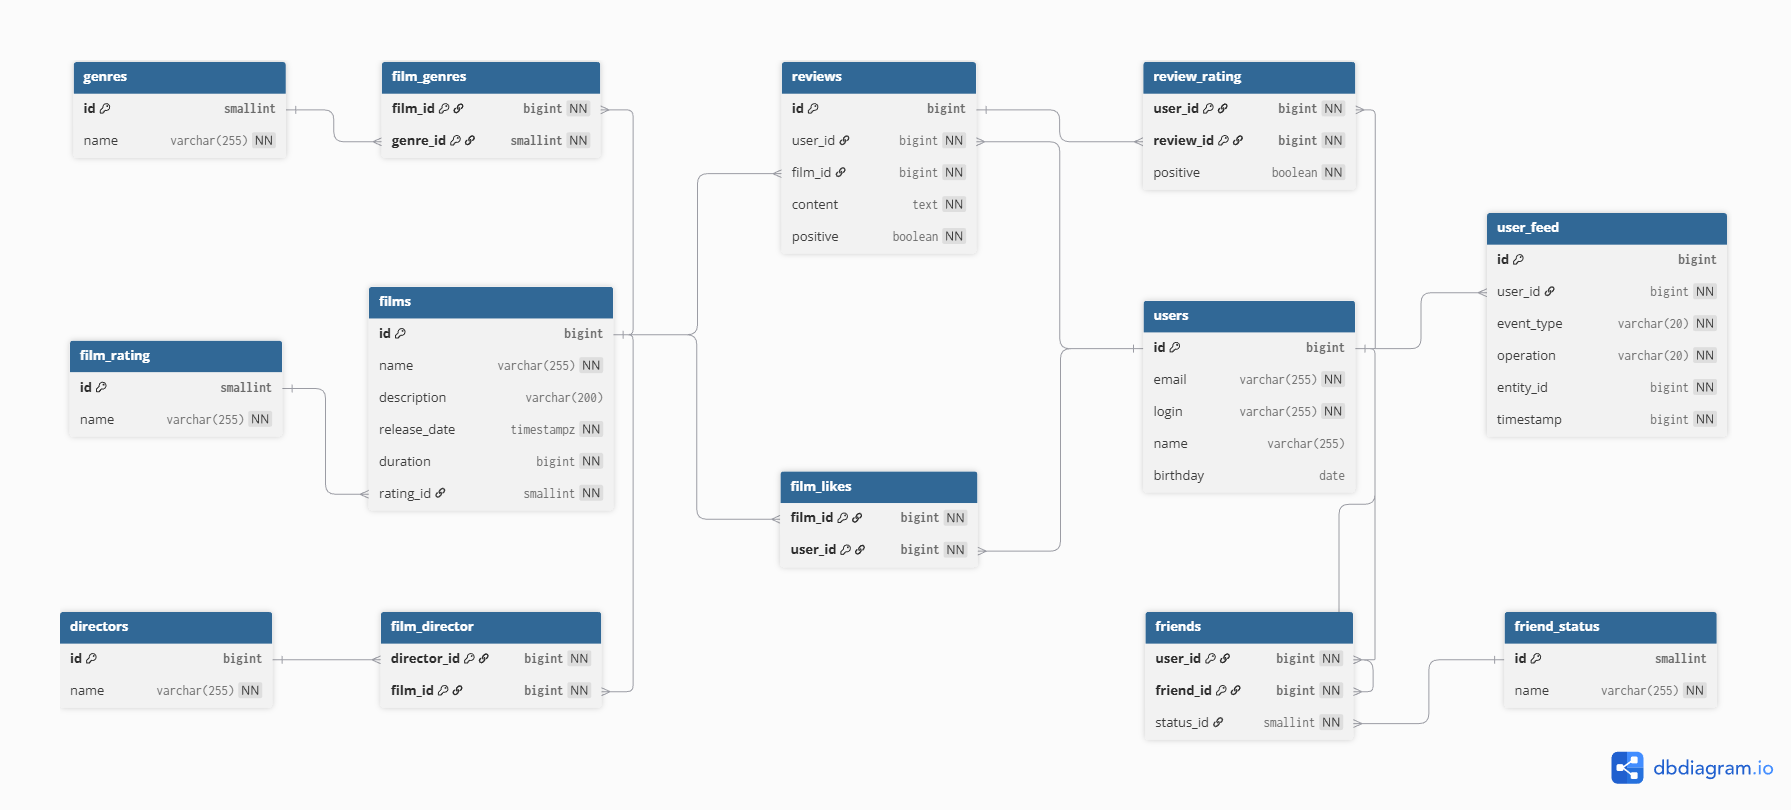
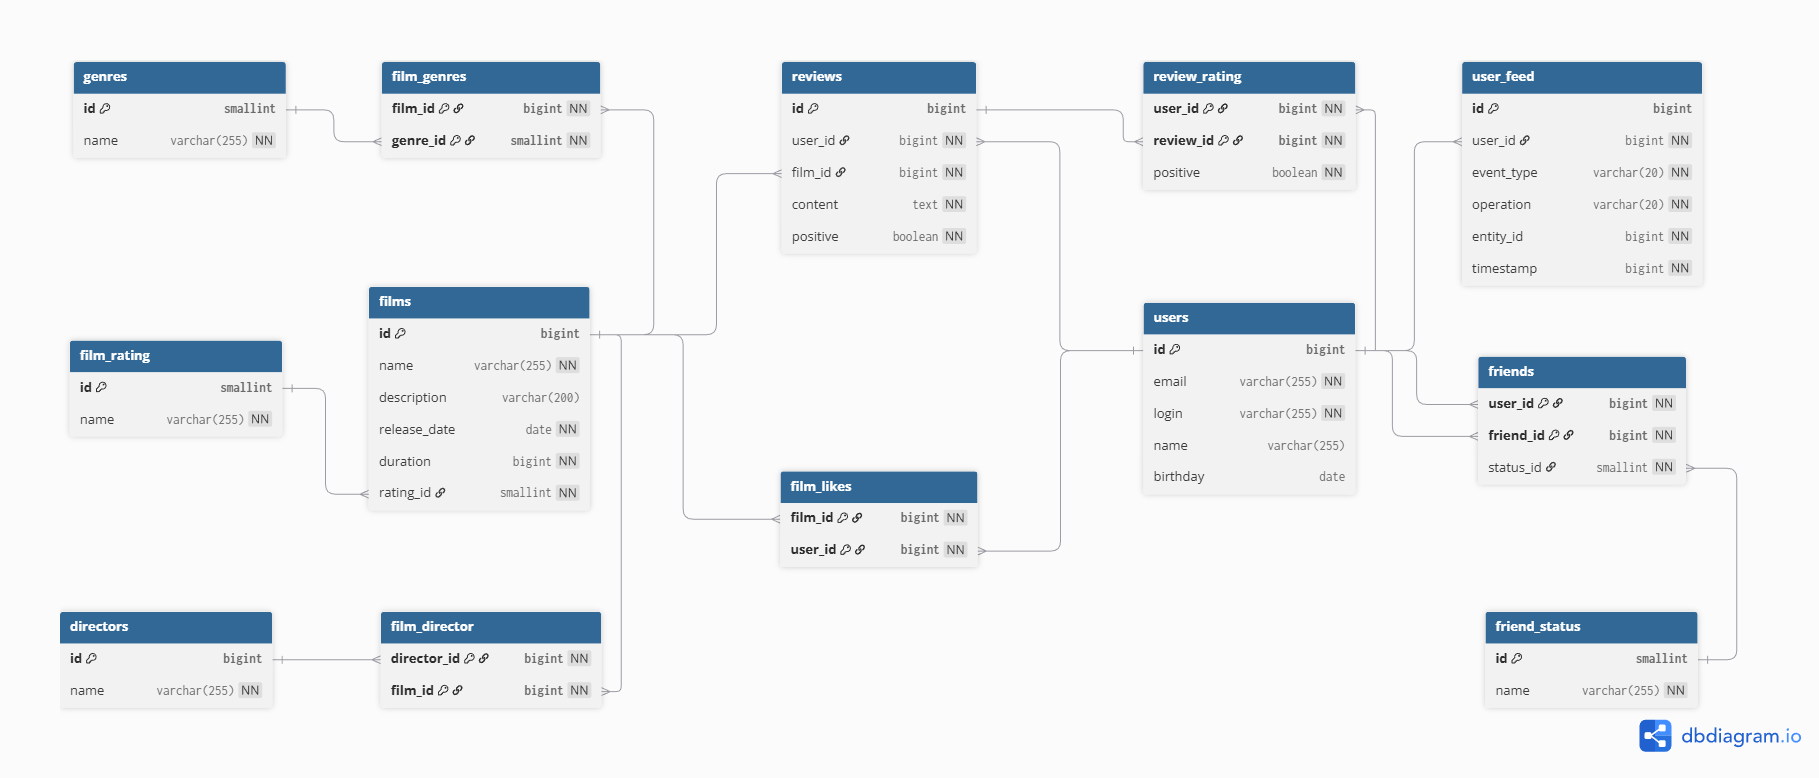
fix/ изменена схема и опаисание Readme, кроме запросов. Исправлена ошибка в запросе удаления Режиссера (не хваатало слова FROM)

diff --git a/src/main/java/ru/yandex/practicum/filmorate/dal/DirectorDBStorage.java b/src/main/java/ru/yandex/practicum/filmorate/dal/DirectorDBStorage.java
@@ -22,7 +22,7 @@ public class DirectorDBStorage extends BaseDBRepository<Director> implements Dir
 
     private static final String UPDATE_DIRECTOR_BY_ID = "UPDATE directors SET name = :name WHERE id = :id";
 
-    private static final String DELETE_DIRECTOR_BY_ID = "DELETE directors WHERE id = :id";
+    private static final String DELETE_DIRECTOR_BY_ID = "DELETE FROM directors WHERE id = :id";
 
     private static final String SELECT_DIRECTOR_BY_ID = "SELECT * FROM directors WHERE id = :id";
 

diff --git a/README.md b/README.md
@@ -2,150 +2,219 @@
 
 ## ER-диаграмма:
 
-![ER-диаграмма](/src/main/resources/er_diagram.png)
+<img src="./src/main/resources/er_diagram.png" width="100%" alt="ER‑диаграмма">
 
 # Пояснение к диаграмме.
 
 ## Таблица `films` (Фильмы)
 
 - **`id`** — уникальный идентификатор фильма.  ё
-  Тип: `integer` (целочисленный).  
+  Тип: `bigint` (целочисленный).  
   Ключевое свойство: первичный ключ.
 
-  - **`name`** — название фильма.  
-    Тип: `varchar` (строковый).
+- **`name`** — название фильма.  
+  Тип: `varchar` (строковый).
 
-  - **`description`** — описание фильма.  
-    Тип: `varchar` (строковый).
+- **`description`** — описание фильма.  
+  Тип: `varchar` (строковый).
 
-  - **`release_date`** — дата выхода фильма.  
-    Тип: `date` (дата).
+- **`release_date`** — дата выхода фильма.  
+  Тип: `date` (дата).
 
-  - **`duration`** — длительность фильма в минутах.  
-    Тип: `integer` (целочисленный).
+- **`duration`** — длительность фильма в минутах.  
+  Тип: `bigint` (целочисленный).
 
-  - **`rating_id`** — ссылка на рейтинг фильма.  
-    Тип: `integer` (целочисленный).  
-    Связь: внешний ключ к таблице `film_rating` (`id`).
+- **`rating_id`** — ссылка на рейтинг фильма.  
+  Тип: `smallint` (целочисленный).  
+  Связь: внешний ключ к таблице `film_rating` (`id`).
 
 ## Таблица `film_likes` (Лайки фильмов)
 
 - **`film_id`** — идентификатор фильма, которому поставлен лайк.  
-  Тип: `integer` (целочисленный).  
+  Тип: `bigint` (целочисленный).  
   Связь: внешний ключ к таблице `films` (`id`).
 
-  - **`user_id`** — идентификатор пользователя, поставившего лайк.  
-    Тип: `integer` (целочисленный).  
-    Связь: внешний ключ к таблице `users` (`id`).
+- **`user_id`** — идентификатор пользователя, поставившего лайк.  
+  Тип: `bigint` (целочисленный).  
+  Связь: внешний ключ к таблице `users` (`id`).
 
 ## Таблица `film_genres` (Жанры фильмов)
 
 - **`film_id`** — идентификатор фильма.  
-  Тип: `integer` (целочисленный).
+  Тип: `bigint` (целочисленный).
   Связь: внешний ключ к таблице `films` (`id`).
 
-  - **`genre_id`** — ссылка на жанр фильма.
-    Тип: `integer` (целочисленный).
-    Связь: внешний ключ к таблице `genres` (`id`).
+- **`genre_id`** — ссылка на жанр фильма.
+  Тип: `smallint` (целочисленный).
+  Связь: внешний ключ к таблице `genres` (`id`).
 
 ## Таблица `genres` (Жанры)
 
 - **`id`** — уникальный идентификатор жанра.  
-  Тип: `integer` (целочисленный).  
+  Тип: `smallint` (целочисленный).  
   Ключевое свойство: первичный ключ.
 
-  - **`name`** — название жанра.  
-    Тип: `genre` (перечисляемый).  
-    Возможные значения:
-      - `COMEDY` (комедия)
-      - `DRAMA` (драма)
-      - `CARTOON` (мультфильм)
-      - `THRILLER` (триллер)
-      - `DOCUMENTARY` (документальный)
-      - `ACTION` (боевик)
+- **`name`** — название жанра.  
+  Тип: `varchar` (строковый).  
+  Возможные значения (`enum FilmGenre`):
+    - `COMEDY` (комедия)
+    - `DRAMA` (драма)
+    - `CARTOON` (мультфильм)
+    - `THRILLER` (триллер)
+    - `DOCUMENTARY` (документальный)
+    - `ACTION` (боевик)
 
 ## Таблица `film_rating` (Рейтинги фильмов)
 
 - **`id`** — уникальный идентификатор рейтинга.  
-  Тип: `integer` (целочисленный).  
+  Тип: `smallint` (целочисленный).  
   Ключевое свойство: первичный ключ.
 
-  - **`name`** — значение рейтинга.  
-    Тип: `rating` (перечисляемый).  
-    Возможные значения:
-      - `G` (для всех возрастов)
-      - `PG` (рекомендуется присутствие родителей)
-      - `PG_13` (детям до 13 лет просмотр нежелателен)
-      - `R` (лицам до 17 лет обязательно присутствие взрослого)
-      - `NC_17` (запрещено для лиц младше 17)
+- **`name`** — значение рейтинга.  
+  Тип: `varchar` (строковый).  
+  Возможные значения (`enum FilmRating`):
+    - `G` (для всех возрастов)
+    - `PG` (рекомендуется присутствие родителей)
+    - `PG_13` (детям до 13 лет просмотр нежелателен)
+    - `R` (лицам до 17 лет обязательно присутствие взрослого)
+    - `NC_17` (запрещено для лиц младше 17)
+
+## Таблица `directors` (Режиссеры)
+
+- **`id`** — уникальный идентификатор режиссера.  
+  Тип: `bigint` (целочисленный).  
+  Ключевое свойство: первичный ключ.
+
+- **`name`** — значение рейтинга.  
+  Тип: `varchar` (строковый).
+
+## Таблица `film_director` (Режиссеры фильмов)
+
+- **`director_id`** — идентификатор режиссера, у которого есть фильм.  
+  Тип: `bigint` (целочисленный).  
+  Связь: внешний ключ к таблице `director` (`id`).
+
+ - **`film_id`** — идентификатор фильма, у которого есть режиссер.  
+    Тип: `bigint` (целочисленный).
+    Связь: внешний ключ к таблице `films` (`id`).
 
 ## Таблица `users` (Пользователи)
 
 - **`id`** — уникальный идентификатор пользователя.  
-  Тип: `integer` (целочисленный).  
+  Тип: `bigint` (целочисленный).  
   Ключевое свойство: первичный ключ.
 
-  - **`email`** — электронная почта пользователя.  
+- **`email`** — электронная почта пользователя.  
     Тип: `varchar` (строковый).
 
-  - **`login`** — логин пользователя для авторизации.  
+- **`login`** — логин пользователя для авторизации.  
     Тип: `varchar` (строковый).
 
-  - **`name`** — полное имя пользователя.  
+- **`name`** — полное имя пользователя.  
     Тип: `varchar` (строковый).
 
-  - **`birthday`** — дата рождения пользователя.  
+- **`birthday`** — дата рождения пользователя.  
     Тип: `date` (дата).
 
 ## Таблица `friends` (Друзья)
 
 - **`user_id`** — идентификатор инициатора дружбы.  
-  Тип: `integer` (целочисленный).  
+  Тип: `bigint` (целочисленный).  
   Ключевое свойство: составной первичный ключ.  
   Связь: внешний ключ к таблице `users` (`id`).
 
-  - **`friend_id`** — идентификатор получателя запроса в друзья.  
-    Тип: `integer` (целочисленный).  
-    Ключевое свойство: составной первичный ключ.  
-    Связь: внешний ключ к таблице `users` (`id`).
+- **`friend_id`** — идентификатор получателя запроса в друзья.  
+  Тип: `bigint` (целочисленный).  
+  Ключевое свойство: составной первичный ключ.  
+  Связь: внешний ключ к таблице `users` (`id`).
 
-  - **`status_id`** — ид статуса дружеского запроса.
+- **`status_id`** — ид статуса дружеского запроса.
+  Тип: `smallint` (целочисленный).
 
 ## Таблица `friend_status` (Статус дружбы с пользователем)
 
 - **`id`** — уникальный идентификатор.  
-  Тип: `integer` (целочисленный).  
+  Тип: `smallint` (целочисленный).  
   Ключевое свойство: первичный ключ.
 
-  - **`name`** — значение статуса.  
-    Тип: `rating` (перечисляемый).  
-    Возможные значения:
+- **`name`** — значение статуса.  
+  Тип: `varchar` (строковый).  
+  Возможные значения (`enum FriendshipStatus`):
       - `CONFIRMED` — подтверждёна
       - `UNCONFIRMED` — не подтверждёна
 
-## Перечисления (`enum`)
+## Таблица `user_feed` (Событие случившееся с пользователем)
 
-### `genre` (Жанры)
+- **`id`** — уникальный идентификатор события.  
+  Тип: `bigint` (целочисленный).  
+  Ключевое свойство: первичный ключ.
 
-- `COMEDY` — комедия
-  - `DRAMA` — драма
-  - `CARTOON` — мультфильм
-  - `THRILLER` — триллер
-  - `DOCUMENTARY` — документальный
-  - `ACTION` — боевик
+- **`user_id`** — идентификатор пользователя совершающего событие.  
+  Тип: `bigint` (целочисленный).  
+  Связь: внешний ключ к таблице `users` (`id`).
 
-### `rating` (Рейтинги)
+- **`event_type`** — вид события 
+  Тип: `varchar` (строковый).
+  Возможные значения (`enum EventType`):
+    - `LIKE` — лайк
+    - `FRIEND` — друг
+    - `REVIEW` - просмотр
 
-- `G` — для всех возрастов
-  - `PG` — рекомендуется присутствие родителей
-  - `PG_13` — детям до 13 лет просмотр нежелателен
-  - `R` — лицам до 17 лет обязательно присутствие взрослого
-  - `NC_17` — запрещено для лиц младше 17
+- **`operation`** — тип операции.  
+  Тип: `varchar` (строковый).
+  Возможные значения (`enum EventOperation`):
+    - `ADD` — добавить
+    - `UPDATE` — обновить
+    - `REMOVE` - удалить
 
-### `friendship_status` (Статусы дружбы)
+- **`entity_id`** — идентификатор сущности с которой происходит событие.  
+  Тип: `bigint` (целочисленный).
 
-- `CONFIRMED` — подтверждён
-  - `UNCONFIRMED` — не подтверждён
+- **`timestamp`** — дата происшествия.  
+  Тип: `bigint` (целочисленный).
+
+## Таблица `reviews` (Отзывы на фильмы)
+
+- **`id`** — уникальный идентификатор события.  
+  Тип: `bigint` (целочисленный).  
+  Ключевое свойство: первичный ключ.
+
+- **`user_id`** — идентификатор пользователя оставившего отзыв.  
+  Тип: `bigint` (целочисленный).  
+  Связь: внешний ключ к таблице `users` (`id`).
+
+- **`film_id`** — идентификатор фильма, у которого есть режиссер.  
+  Тип: `bigint` (целочисленный).
+  Связь: внешний ключ к таблице `films` (`id`).
+
+- **`content`** — тектс отзыва.  
+  Тип: `text` (строковый).  
+
+- **`positive`** — тип отзыва.  
+  Тип: `boolean` (логический). 
+  Допустимые значения: `TRUE` (истина), `FALSE` (ложь).
+
+## Таблица `review_rating` (Рейтинг отзыва)
+
+- **`user_id`** — идентификатор пользователя оставившего отзыв.  
+  Тип: `bigint` (целочисленный).  
+  Связь: внешний ключ к таблице `users` (`id`).
+
+- **`review_id`** — идентификатор события.  
+  Тип: `bigint` (целочисленный).
+  Связь: внешний ключ к таблице `reviews` (`id`).
+    
+- **`positive`** — тип отзыва.  
+  Тип: `boolean` (логический). 
+  Допустимые значения: `TRUE` (истина), `FALSE` (ложь).
+
+#### Дополнительные enum 
+  
+## FilmSearchType (для типов поиска фильма)
+
+  - `TITLE` — по названию
+  - `DIRECTOR` — по режиссеру
+  - `TITLE_AND_DIRECTOR` - по названию и режиссеру
 
 #### Запросы для основных операций приложения.
 
